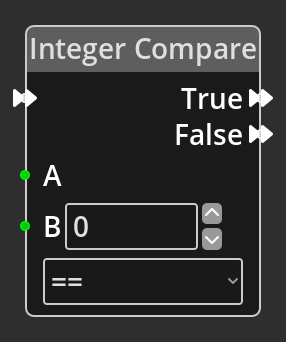
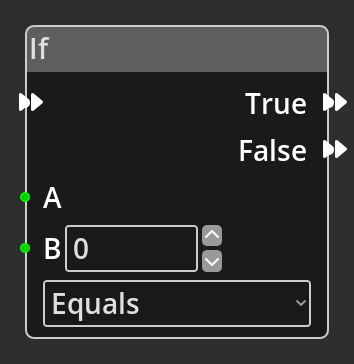
Add more logic nodes.

Changed region(s): [[0.028, 0.0585, 0.979, 0.9357]]

diff --git a/docs/introduction/terminology.md b/docs/introduction/terminology.md
@@ -32,27 +32,28 @@ for a very dull game.
 An Object must first be *defined*, the definition of an Object details things
 like the visual represenation via [Sprites](#sprites) and any other information
 that is required to display the object that may be platform specific, such as
-colour and draw mode, and any [Logic](#logic). To use an Object in your game
-requires creating *Object References* or *Refs*. These are instances of the
-object definition, they share the visual representation and logic code that the
-*Object Definition* holds, but each *Ref* has it's own position, logic
-variables, [Timeline Animations](#timeline-animation), and any other
-information that might be specific to a particular platform. *Object
-References* can be created in the following ways.
+colour and draw mode, and any [Logic](#logic). 
 
- - Global Objects - these are created in the [Map
+However, an *Object Definition* does not contribute to the game iself, it has to
+be used. Objects can be used in Rooms and the Map, each use shares the visual
+representation and logic code from the *Object Definition*, but each use 
+has its own position, values for the variables defined in the logic, [Timeline
+Animations](#timeline-animation), and any other information that might be
+specific to a particular platform. Objects can be used in the following ways.
+
+ - Map Objects - these are created in the [Map
    Editor](../interface/map_editor.md) and are constant throughout the game,
    they will always exist irrespective of which [Location](#locations) you are
-   in, and will be drawn, if their position puts them on screen, and their
-   logic will be executed.
- - Local or Room Objects - these are in each [Room Definition](#rooms) and will
-   only be active while in a [Location](#locations) that references that room,
-   so they will not be drawn or their logic executed when in another room. It's
-   worth noting that when exiting a room that contains Room Objects, the data
-   used by the Kwyll library for those objects, such as memory for
-   [Sprite](#sprites) rendering etc. will be freed, reducing the overhead for
+   in, and will be drawn, if their position puts them on screen, and their logic
+   will be run.
+ - Room Objects - these are in each [Room Definition](#rooms) and will only be
+   active while in a [Location](#locations) that uses that Room, so they will
+   not be drawn or their logic run when in location that uses another room.
+   It's worth noting that when exiting a room that contains Room Objects, the
+   data used by the Kwyll library for those objects, such as memory for
+   [Sprite](#sprites) etc. will be freed, reducing the overhead for
    both memory and performance, so it is advisable to use Room Objects where
-   appropriate over Global Objects.
+   appropriate over Map Objects.
  - Dynamic Objects - these are not created in an editor during your game
    creation, they are instead created during the game using the [Spawn
    Object](../logic/nodes/spawn_object.md) node, and can be destroyed using the
@@ -69,49 +70,66 @@ An *Object Definition* consists of two main elements.
    for walking right, one for jumping, one for attacking etc. The game designer
    can choose which Animation is played using the logic nodes based on what is
    happening in the game at that moment.
- - [Logic](#logic) is the "brains" of an Object, it defines what an Object
-   does, and when. In Kwyll, logic is created using a visual programming tool
-   that we'll get into later, a powerful means of writing code without writing
-   code.
+ - [Logic](#logic) is the "brains" of an Object, it defines what an Object does,
+   and when. In Kwyll, logic is created using a visual programming tool, a
+   powerful means of writing code without writing code.
 
 ## Tiles
 
-Tiles are the simpler, more constrained, cousin to Sprites. They are also
-simple grid of pixels, however, a Tile is always 8x8, and cannot be used in
-[Objects](#objects), instead they are used in [Rooms](#rooms), typically to
-draw the background of a room, over which an Object's Sprites are drawn, and
-Screens, typically to draw borders or background graphics for a screen be it a
-menu screen, a game screen or any other use.
+Tiles are the simpler, more constrained, cousin to Sprites. They are also simple
+grid of pixels, however, a Tile is always 8x8 (unless a particular platform
+supports or requires a different size), and cannot be used in
+[Objects](#objects), instead they are used in [Rooms](#rooms), typically to draw
+the background of a room, over which an [Object's](#objects) Sprites are drawn,
+and [Screens](#screens), typically to draw borders or background graphics for a
+screen be it a menu screen, a game screen or any other use, and also as the
+content of an [Instrument](#instrument) of the appropriate type.
 
-Unlike Sprites, Tiles do not have their own separate editor in Kwyll, the tools
-to create, edit and modify Tiles are integrated into the Room and Screen
-editors, as they are simple and it is convenient to have their editing tools in
-place in the editors where you use tiles. This choice means it's very efficient
-to work with Tiles when drawing your [Rooms](#rooms) and Screens, with all the
-tools you need in one place.
+
+## Tilemap
+
 
 ## Rooms
 
-A game in Kwyll consists of a number of 'rooms', each room represents a
+A game in Kwyll consists of a number of Rooms, each room represents a
 separate space in the game, Kwyll does not currently support scrolling so
 gameplay is constrained to a single screen at a time, rooms allow you to move
-between these spaces. Each room contains any combination of the following
+between these spaces. Each Room contains any combination of the following
 elements:
 
  - A Tilemap, which represents the background of the room, such as the scenery,
    walls, platforms, etc.
  - Room [Objects](#objects), which are unique to that room definition and are
    only active while the room is active.
- - Room [Logic](#logic) that is specific to the room defintion, the Always
-   triggers on Room Logic are only executed while the room is active.
+ - Room [Logic](#logic) that is specific to the room defintion. Logic triggers
+   on a Room only run when a [Location](#locations) that uses the Room is the
+   current game location.
  - Markers, very lightweight objects that only contain position information, no
    sprites or logic, and are used primarily within Room or Object
    [Logic](#logic) to place things within a room dynamically, for example, a
    marker may be used as a spawn point for the player, or as a position to
    appear when entering a room from another room.
 
+A *Room Defintion*, much like an *Object Definition* doesn't actually contribute
+to the game itself until it is used, in the case of a Room, the definition has
+to be used in the [Map](#map) in a [Location](#locations). The [Map](#map) can
+contain multiple [Locations](#locations) that use the same *Room Definition*,
+much like an *Object Definition* can be used multiple times for Room and Map
+objects.
+
 
 ## Screens
+
+A Screen in Kwyll is a collection of [Instruments](#instruments), a Tilemap, and
+optionally, the game window. A screen can also have [Logic](#logic) associated
+with it that is run while that screen is the current screen. 
+
+There is only one screen active at any time in a Kwyll game. Uses of screens
+include the main game screen which will have the game window positioned on the
+screen accordingly, a menu screen, instructions, and many others.
+
+
+## Instruments
 
 
 ## Logic
@@ -121,3 +139,6 @@ elements:
 
 
 ## Locations
+
+
+## Data

diff --git a/docs/logic/nodes/get_variable.md b/docs/logic/nodes/get_variable.md
@@ -1,21 +1,24 @@
 
-# Get
+# Get Variable
 
 
 ## Description
 
-![Get Node](../../assets/nodes/get_node.png){align=left} The *Get Node* is used
-to get the integer value of a variable on whatever the current logic graph is
-running, i.e. a [Screen](../../introduction/terminology.md#screens), a
+![Get Variable Node](../../assets/nodes/get_node.png){align=left} The *Get
+Variable Node* is used to get the integer value of a variable on whatever the
+current logic graph is running, i.e. a
+[Screen](../../introduction/terminology.md#screens), a
 [Room](../../introduction/terminology.md#rooms) or an
 [Object](../../introduction/terminology.md#objects).
 
-It's important to understand that the value being returned is the value for the
-chosen variable in the [Object
-Reference](../../introduction/terminology.md#objects) that is running the logic
-code, each reference has it's own version of the variables, so accessing a
-variable on one reference for a particular object type will not necessarily
-return the same value as for another reference, they are independent.
+It's important to understand that, in the case of
+[rooms](../../introduction/terminology.md#rooms) and
+[objects](../../introduction/terminology.md#objects) the value being accessed
+is the value for the chosen variable in the [Object
+Reference](../../introduction/terminology.md#objects) or
+[Location](../../introduction/terminology.md#locations), that is running the logic
+code, each reference has it's own copy of the variables, they are independent.
+
 
 <br style="clear:left"/>
   
@@ -31,6 +34,6 @@ return the same value as for another reference, they are independent.
 
 ## Parameters
 
-Variable 
+*Variable*
 : A dropdown listing the defined variables associated with the current logic graph.
 

diff --git a/docs/logic/nodes/set_variable.md b/docs/logic/nodes/set_variable.md
@@ -1,18 +1,22 @@
 
-# Set
+# Set Variable
 
 
 ## Description
 
-![Set Node](../../assets/nodes/set_node.png){align=left} The *Set Node* is used
-to set the integer value of a variable on whatever the current logic graph is
-running, i.e. a [Screen](../../introduction/terminology.md#screens), a
+![Set Variable Node](../../assets/nodes/set_node.png){align=left} The *Set
+Variable Node* is used to set the integer value of a variable on whatever the
+current logic graph is running, i.e. a
+[Screen](../../introduction/terminology.md#screens), a
 [Room](../../introduction/terminology.md#rooms) or an
 [Object](../../introduction/terminology.md#objects).
 
-It's important to understand that the value being modified is the value for the
-chosen variable in the [Object
-Reference](../../introduction/terminology.md#objects) that is running the logic
+It's important to understand that, in the case of
+[rooms](../../introduction/terminology.md#rooms) and
+[objects](../../introduction/terminology.md#objects) the value being modified
+is the value for the chosen variable in the [Object
+Reference](../../introduction/terminology.md#objects) or
+[Location](../../introduction/terminology.md#locations), that is running the logic
 code, each reference has it's own version of the variables, so changing a
 variable on one reference for a particular object type will not affect the
 value on other references, they are independent.
@@ -48,5 +52,5 @@ Value
   will use the value provided on the input port.
 
 *Variable*
-: A dropdown listing the defined variables associated with the current logic graph.
+: A dropdown listing the defined variable names on the current logic graph.
 

diff --git a/docs/logic/nodes/anim_event.md b/docs/logic/nodes/anim_event.md
@@ -1,10 +1,10 @@
 
-# Animation Event
+# AnimEvent
 
-![Animation Event Node](../../assets/nodes/animationevent_node.png){align=left}
-The *Animation Event Node* is a specific type of *Node* called a __Trigger__. A
-trigger *Node* is an entrypoint into a flow in the Kwyll logic. The *Animation
-Event* trigger is connected to the timeline animation feature in the [Rooms
+![AnimEvent Node](../../assets/nodes/animationevent_node.png){align=left} The
+*AnimEvent Node* is a specific type of *Node* called a __Trigger__. A trigger
+*Node* is an entrypoint into a flow in the Kwyll logic. The *AnimEvent* trigger
+is connected to the timeline animation feature in the [Rooms
 Editor](../../interface/room_editor.md). It will run the flow that follows on
 from it's __Flow Out__ port when a the current timeline animation for this
 object hits a keyframe that has the *Trigger Event* checkbox selected. The

diff --git a/docs/logic/nodes/controller.md b/docs/logic/nodes/controller.md
@@ -1,11 +1,11 @@
 
-# Controller
+# Controller Input
 
 
 ## Description
 
-![Controller Node](../../assets/nodes/controllerinput_node.png){align=left} The
-*Controller Node* reports on the status of the configured controller for left,
+![Controller Input Node](../../assets/nodes/controllerinput_node.png){align=left} The
+*Controller Input Node* reports on the status of the configured controller for left,
 right, up, down and jump/fire. This node will adapt to whatever has been
 configured for the input method in your game, joystick, keyboard etc. The node
 allows you to define which values to return when each input is activated,

diff --git a/docs/logic/nodes/clamp.md b/docs/logic/nodes/clamp.md
@@ -26,13 +26,11 @@ Out
 
 Min
 : An integer input port, using this allows you to specify the minimum value from
-  elsewhere in the logic graph, such as via an [Integer
-  Constant](integer_constant.md) node.
+  elsewhere in the logic graph, such as via an [Number](number.md) node.
 
 Max
 : An integer input port, using this allows you to specify the maximum value from
-  elsewhere in the logic graph, such as via an [Integer
-  Constant](integer_constant.md) node.
+  elsewhere in the logic graph, such as via an [Number](number.md) node.
 
 
 -------

diff --git a/docs/logic/nodes/or.md b/docs/logic/nodes/or.md
@@ -7,8 +7,7 @@
 inputs of type integer and compares them with 0. If either or both are not 0,
 the output will be 1, if both are 0, the output will be 0. 
 
-This is useful to combine checks, in particular with the [Integer
-Compare](integer_compare.md) nodes.
+This is useful to combine checks, in particular with the [Compare](compare.md) node.
 
 
 ## Ports {: style="clear:left" }

diff --git a/docs/logic/nodes/and.md b/docs/logic/nodes/and.md
@@ -7,7 +7,7 @@ two inputs of type integer and compares them with 0. If both are not 0, the
 output will be 1, if either or both are 0, the output will be 0. 
 
 This is useful to combine checks, in particular with the [Integer
-Compare](integer_compare.md) nodes.
+Compare](compare.md) node.
 
 
 <br style="clear:left"/>

diff --git a/docs/logic/nodes/subgraph.md b/docs/logic/nodes/subgraph.md
@@ -4,4 +4,5 @@
 ![Subgraph Node](../../assets/nodes/subgraph_node.png){align=left}
 ![Subgraph Input Node](../../assets/nodes/input_node.png){align=left}
 ![Subgraph Output Node](../../assets/nodes/output_node.png){align=left}
+![Subgraph Flow In Node](../../assets/nodes/flowin_node.png){align=left}
 

diff --git a/docs/logic/nodes/timeline_animation.md b/docs/logic/nodes/timeline_animation.md
@@ -1,4 +1,4 @@
 
-# Timeline Animation
+# Timeline Anim.
 
-![Timeline Animation Node](../../assets/nodes/timelineanimation_node.png){align=left}
+![Timeline Anim. Node](../../assets/nodes/timelineanimation_node.png){align=left}

diff --git a/docs/logic/nodes/sprite_animation.md b/docs/logic/nodes/sprite_animation.md
@@ -1,4 +1,4 @@
 
-# Sprite Animation
+# Sprite Anim.
 
-![Sprite Animation Node](../../assets/nodes/spriteanimation_node.png){align=left}
+![Sprite Anim. Node](../../assets/nodes/spriteanimation_node.png){align=left}
